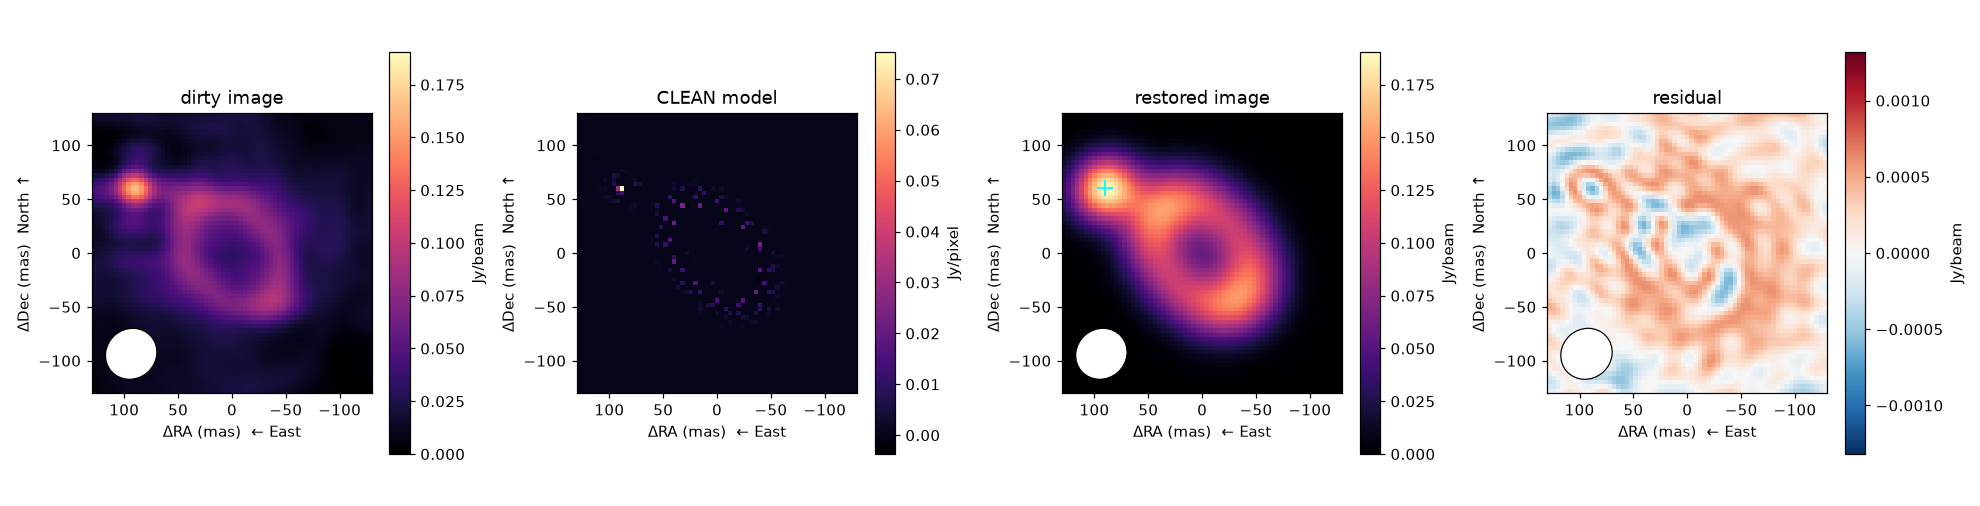
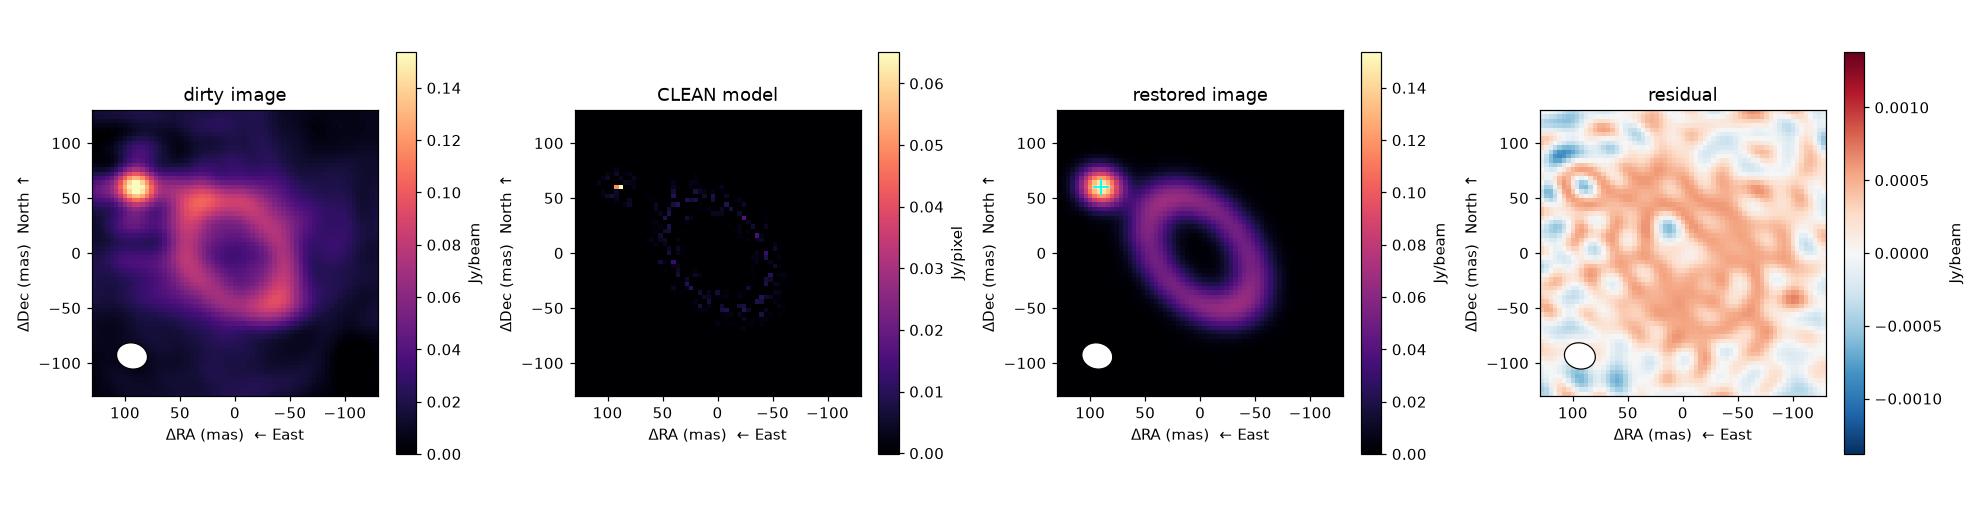
Radio figures: CLEAN with the same Briggs weighting as the dirty beam; ruff format

diff --git a/scripts/make_radio_docs_figures.py b/scripts/make_radio_docs_figures.py
@@ -23,7 +23,10 @@ from virgil.radio_clean import clean, restore
 jax.config.update("jax_enable_x64", True)
 OUT = Path(__file__).resolve().parents[1] / "docs" / "figures"
 N, S, SIG = 65, 4.0, 0.05
-CLUMP = (90.0, 60.0)  # (ΔRA, ΔDec) mas, East- and North-positive: the orientation marker
+CLUMP = (
+    90.0,
+    60.0,
+)  # (ΔRA, ΔDec) mas, East- and North-positive: the orientation marker
 HALF = N * S / 2
 EXTENT = [HALF, -HALF, -HALF, HALF]  # East left, North up; row 0 is North
 
@@ -34,33 +37,64 @@ def simulate():
         + 0.2 * scenes.gaussian_blob(N, S, 6, dra=CLUMP[0], ddec=CLUMP[1])
     )
     rng = onp.random.default_rng(1)
-    bl = onp.exp(rng.uniform(onp.log(100), onp.log(1e4), (300, 2))) * rng.choice([-1, 1], (300, 2))
-    H, dec, lat = onp.deg2rad(onp.linspace(-45, 45, 200)), onp.deg2rad(-37), onp.deg2rad(-23)
-    u = ((bl[:, :1] * onp.cos(H) - bl[:, 1:] * onp.sin(lat) * onp.sin(H)) / 1.3e-3).ravel()
-    v = (
-        (bl[:, :1] * onp.sin(dec) * onp.sin(H) + bl[:, 1:] * (onp.sin(lat) * onp.sin(dec) * onp.cos(H) + onp.cos(lat) * onp.cos(dec)))
+    bl = onp.exp(
+        rng.uniform(onp.log(100), onp.log(1e4), (300, 2))
+    ) * rng.choice([-1, 1], (300, 2))
+    H, dec, lat = (
+        onp.deg2rad(onp.linspace(-45, 45, 200)),
+        onp.deg2rad(-37),
+        onp.deg2rad(-23),
+    )
+    u = (
+        (bl[:, :1] * onp.cos(H) - bl[:, 1:] * onp.sin(lat) * onp.sin(H))
         / 1.3e-3
     ).ravel()
-    vis = onp.asarray(image_visibilities(truth, u, v, S, ft="dft")) + SIG * (rng.normal(size=u.size) + 1j * rng.normal(size=u.size))
-    return truth, ComplexVisData.from_arrays(u, v, vis, 1 / SIG**2, 230e9), u, v
+    v = (
+        (
+            bl[:, :1] * onp.sin(dec) * onp.sin(H)
+            + bl[:, 1:]
+            * (
+                onp.sin(lat) * onp.sin(dec) * onp.cos(H)
+                + onp.cos(lat) * onp.cos(dec)
+            )
+        )
+        / 1.3e-3
+    ).ravel()
+    vis = onp.asarray(image_visibilities(truth, u, v, S, ft="dft")) + SIG * (
+        rng.normal(size=u.size) + 1j * rng.normal(size=u.size)
+    )
+    return (
+        truth,
+        ComplexVisData.from_arrays(u, v, vis, 1 / SIG**2, 230e9),
+        u,
+        v,
+    )
 
 
 def check_orientation(image):
     """The clump is East (left, low column) and North (up, low row) of the centre."""
     c = (N - 1) // 2
     east, north = int(round(CLUMP[0] / S)), int(round(CLUMP[1] / S))
-    assert image[c - north, c - east] > 3 * image[c + north, c + east], "East/North orientation is wrong"
+    assert image[c - north, c - east] > 3 * image[c + north, c + east], (
+        "East/North orientation is wrong"
+    )
     assert image[c - north, c - east] > 3 * image[c + north, c - east]
 
 
 def sky(ax, im, beam=None, title="", label="Jy/beam", marker=False, **kw):
     shown = ax.imshow(im, extent=EXTENT, origin="upper", **kw)
-    ax.set(title=title, xlabel="ΔRA (mas)  ← East", ylabel="ΔDec (mas)  North ↑")
+    ax.set(
+        title=title, xlabel="ΔRA (mas)  ← East", ylabel="ΔDec (mas)  North ↑"
+    )
     ax.get_figure().colorbar(shown, ax=ax, label=label, shrink=0.85)
     if beam is not None:
         bmaj, bmin, pa = beam
         x0, y0 = HALF * 0.72, -HALF * 0.72
-        ax.add_patch(Ellipse((x0, y0), bmin, bmaj, angle=-pa, fc="white", ec="k", lw=0.8))
+        ax.add_patch(
+            Ellipse(
+                (x0, y0), bmin, bmaj, angle=-pa, fc="white", ec="k", lw=0.8
+            )
+        )
     if marker:
         ax.plot(*CLUMP, "+", color="cyan", ms=10, mew=1.2)
     return shown
@@ -77,7 +111,16 @@ def main():
     beam_im = onp.asarray(data.dirty_beam(N, S, **kw))
     dirty = onp.asarray(data.dirty_image(N, S, **kw))
     check_orientation(dirty)
-    res = clean(data, N, S, deconvolver="hogbom", threshold=3 / onp.sqrt(onp.sum(onp.asarray(data.weight))), usemask="auto-multithresh")
+    res = clean(
+        data,
+        N,
+        S,
+        deconvolver="hogbom",
+        weighting="briggs",
+        robust=0.5,
+        threshold=3 / onp.sqrt(onp.sum(onp.asarray(data.weight))),
+        usemask="auto-multithresh",
+    )
     beam = res.beam
     lam = 1e6
 
@@ -85,8 +128,19 @@ def main():
     fig, ax = plt.subplots(1, 3, figsize=(15, 4.6))
     ax[0].plot(u / lam, v / lam, ",", color="C0", alpha=0.6)
     ax[0].plot(-u / lam, -v / lam, ",", color="C0", alpha=0.6)
-    ax[0].set(title="uv coverage", xlabel="u (Mλ)", ylabel="v (Mλ)", aspect="equal")
-    sky(ax[1], beam_im, beam, "dirty beam (Briggs 0.5)", "response", cmap="RdBu_r", vmin=-1, vmax=1)
+    ax[0].set(
+        title="uv coverage", xlabel="u (Mλ)", ylabel="v (Mλ)", aspect="equal"
+    )
+    sky(
+        ax[1],
+        beam_im,
+        beam,
+        "dirty beam (Briggs 0.5)",
+        "response",
+        cmap="RdBu_r",
+        vmin=-1,
+        vmax=1,
+    )
     sky(ax[2], dirty, beam, "dirty image", cmap="magma", marker=True)
     fig.tight_layout()
     fig.savefig(OUT / "radio_dirty_trio.png", dpi=110)
@@ -94,15 +148,34 @@ def main():
     # --- CLEAN products
     lim = 5 * float(onp.std(res.residual))
     fig, ax = plt.subplots(1, 4, figsize=(18, 4.6))
-    sky(ax[0], dirty, beam, "dirty image", cmap="magma", vmin=0, vmax=res.image.max())
+    sky(
+        ax[0],
+        dirty,
+        beam,
+        "dirty image",
+        cmap="magma",
+        vmin=0,
+        vmax=res.image.max(),
+    )
     sky(ax[1], res.model, None, "CLEAN model", "Jy/pixel", cmap="magma")
-    sky(ax[2], res.image, beam, "restored image", cmap="magma", vmin=0, vmax=res.image.max(), marker=True)
+    sky(
+        ax[2],
+        res.image,
+        beam,
+        "restored image",
+        cmap="magma",
+        vmin=0,
+        vmax=res.image.max(),
+        marker=True,
+    )
     diverging(ax[3], res.residual, lim, beam=beam, title="residual")
     fig.tight_layout()
     fig.savefig(OUT / "radio_clean_products.png", dpi=110)
 
     # --- CLEAN vs RML on the same data
-    nuis = CalibrationNuisance(data, ref_obs=0, alpha=False, offsets=False, sigmas=False)
+    nuis = CalibrationNuisance(
+        data, ref_obs=0, alpha=False, offsets=False, sigmas=False
+    )
     priors = nuis.priors()
     scene = lambda values: Image(values["log_brightness"], pixel_scale_mas=S)
     start = onp.clip(res.model, 0, None) / onp.clip(res.model, 0, None).sum()
@@ -111,27 +184,79 @@ def main():
     init["cal.flux"] = float(res.model.sum())
     priors["log_brightness"] = dist.Normal(0.0, 3.0)
     term = data.term(scene, nuis, chi2="auto")
-    result = fit(lambda **values: scene(values), priors, (), likelihoods=[term], regularizers=[MaxEntropy(1e3)], init=init, method="lbfgs", max_steps=5000)
-    fit_image = onp.asarray(scene(result.values).brightness) * float(result.values["cal.flux"])
+    result = fit(
+        lambda **values: scene(values),
+        priors,
+        (),
+        likelihoods=[term],
+        regularizers=[MaxEntropy(1e3)],
+        init=init,
+        method="lbfgs",
+        max_steps=5000,
+    )
+    fit_image = onp.asarray(scene(result.values).brightness) * float(
+        result.values["cal.flux"]
+    )
     zeros = onp.zeros((N, N))
     tr, rm = restore(truth, zeros, beam, S), restore(fit_image, zeros, beam, S)
     w = onp.asarray(data.weight)
-    chi = lambda m: float(onp.sum(w * onp.abs(onp.asarray(data.vis) - onp.asarray(m)) ** 2) / (2 * len(data)))
+    chi = lambda m: float(
+        onp.sum(w * onp.abs(onp.asarray(data.vis) - onp.asarray(m)) ** 2)
+        / (2 * len(data))
+    )
     fit_vis = data.model(scene(result.values), result.values, nuis)
     pk = tr.max()
     stats = {
-        "CLEAN": (chi(res.model_visibilities(data)), onp.sqrt(onp.mean((res.image - res.residual - tr) ** 2)) / pk),
-        "RML (MaxEntropy)": (chi(fit_vis), onp.sqrt(onp.mean((rm - tr) ** 2)) / pk),
+        "CLEAN": (
+            chi(res.model_visibilities(data)),
+            onp.sqrt(onp.mean((res.image - res.residual - tr) ** 2)) / pk,
+        ),
+        "RML (MaxEntropy)": (
+            chi(fit_vis),
+            onp.sqrt(onp.mean((rm - tr) ** 2)) / pk,
+        ),
     }
     print({k: (round(a, 3), round(b, 4)) for k, (a, b) in stats.items()})
     fig, ax = plt.subplots(2, 3, figsize=(14, 9))
-    sky(ax[0, 0], tr, beam, "truth, restored", cmap="magma", vmin=0, vmax=pk, marker=True)
-    sky(ax[0, 1], res.image - res.residual, beam, "CLEAN model, restored", cmap="magma", vmin=0, vmax=pk)
+    sky(
+        ax[0, 0],
+        tr,
+        beam,
+        "truth, restored",
+        cmap="magma",
+        vmin=0,
+        vmax=pk,
+        marker=True,
+    )
+    sky(
+        ax[0, 1],
+        res.image - res.residual,
+        beam,
+        "CLEAN model, restored",
+        cmap="magma",
+        vmin=0,
+        vmax=pk,
+    )
     sky(ax[0, 2], rm, beam, "RML fit, restored", cmap="magma", vmin=0, vmax=pk)
     ax[1, 0].axis("off")
-    ax[1, 0].text(0.0, 0.5, "\n".join(f"{k}:  χ²/N = {a:.3f}\n   rms − truth = {b:.3f} of peak" for k, (a, b) in stats.items()), fontsize=11, va="center")
+    ax[1, 0].text(
+        0.0,
+        0.5,
+        "\n".join(
+            f"{k}:  χ²/N = {a:.3f}\n   rms − truth = {b:.3f} of peak"
+            for k, (a, b) in stats.items()
+        ),
+        fontsize=11,
+        va="center",
+    )
     l2 = 0.02 * pk
-    diverging(ax[1, 1], res.image - res.residual - tr, l2, beam=beam, title="CLEAN − truth")
+    diverging(
+        ax[1, 1],
+        res.image - res.residual - tr,
+        l2,
+        beam=beam,
+        title="CLEAN − truth",
+    )
     diverging(ax[1, 2], rm - tr, l2, beam=beam, title="RML − truth")
     fig.tight_layout()
     fig.savefig(OUT / "radio_clean_vs_rml.png", dpi=110)

diff --git a/docs/radio_clean.md b/docs/radio_clean.md
@@ -43,7 +43,7 @@ figure on this page in about a minute on a laptop CPU.
 from virgil.radio_clean import clean
 
 sigma = 1 / onp.sqrt(onp.sum(onp.asarray(data.weight)))  # thermal noise of the natural image
-res = clean(data, npix=65, pixel_scale_mas=4.0, deconvolver="hogbom",
+res = clean(data, npix=65, pixel_scale_mas=4.0, deconvolver="hogbom", weighting="briggs", robust=0.5,
             threshold=3 * sigma, usemask="auto-multithresh")
 res.image, res.model, res.residual   # Jy/beam, Jy/pixel, Jy/beam
 model_vis = res.model_visibilities(data)   # the model at the data's (u, v)
@@ -53,7 +53,7 @@ model_vis = res.model_visibilities(data)   # the model at the data's (u, v)
 
 The dirty image is the data convolved with the dirty beam. CLEAN replaces it by a sparse model
 (second panel); restored through the Gaussian beam (white ellipse), the model plus residual
-gives the third. The residual is on a symmetric scale centred on zero, at about 1 per cent of
+gives the third. The residual is on a symmetric scale centred on zero, at a small fraction of
 the peak. Every sky image on this page has North up and East left.
 
 **CLEAN against RML.** The same data, fitted instead as a pixel `Image` with a `MaxEntropy`
@@ -62,7 +62,7 @@ difference from the truth on one scale:
 
 ![CLEAN and RML against the truth](figures/radio_clean_vs_rml.png)
 
-Both reach χ²/N ≈ 1 on the quoted errors, and both differ from the truth by about 0.2–0.3 per
+Both reach χ²/N ≈ 1 on the quoted errors, and both differ from the truth by about 0.2 per
 cent of its peak. CLEAN is a greedy sparse model that needs no optimizer and no prior; the
 fit is a nonlinear optimization with a prior, which is what lets it carry constraints beyond
 the data (positivity, a regularizer, nuisance parameters). On this scene, one seed, neither
